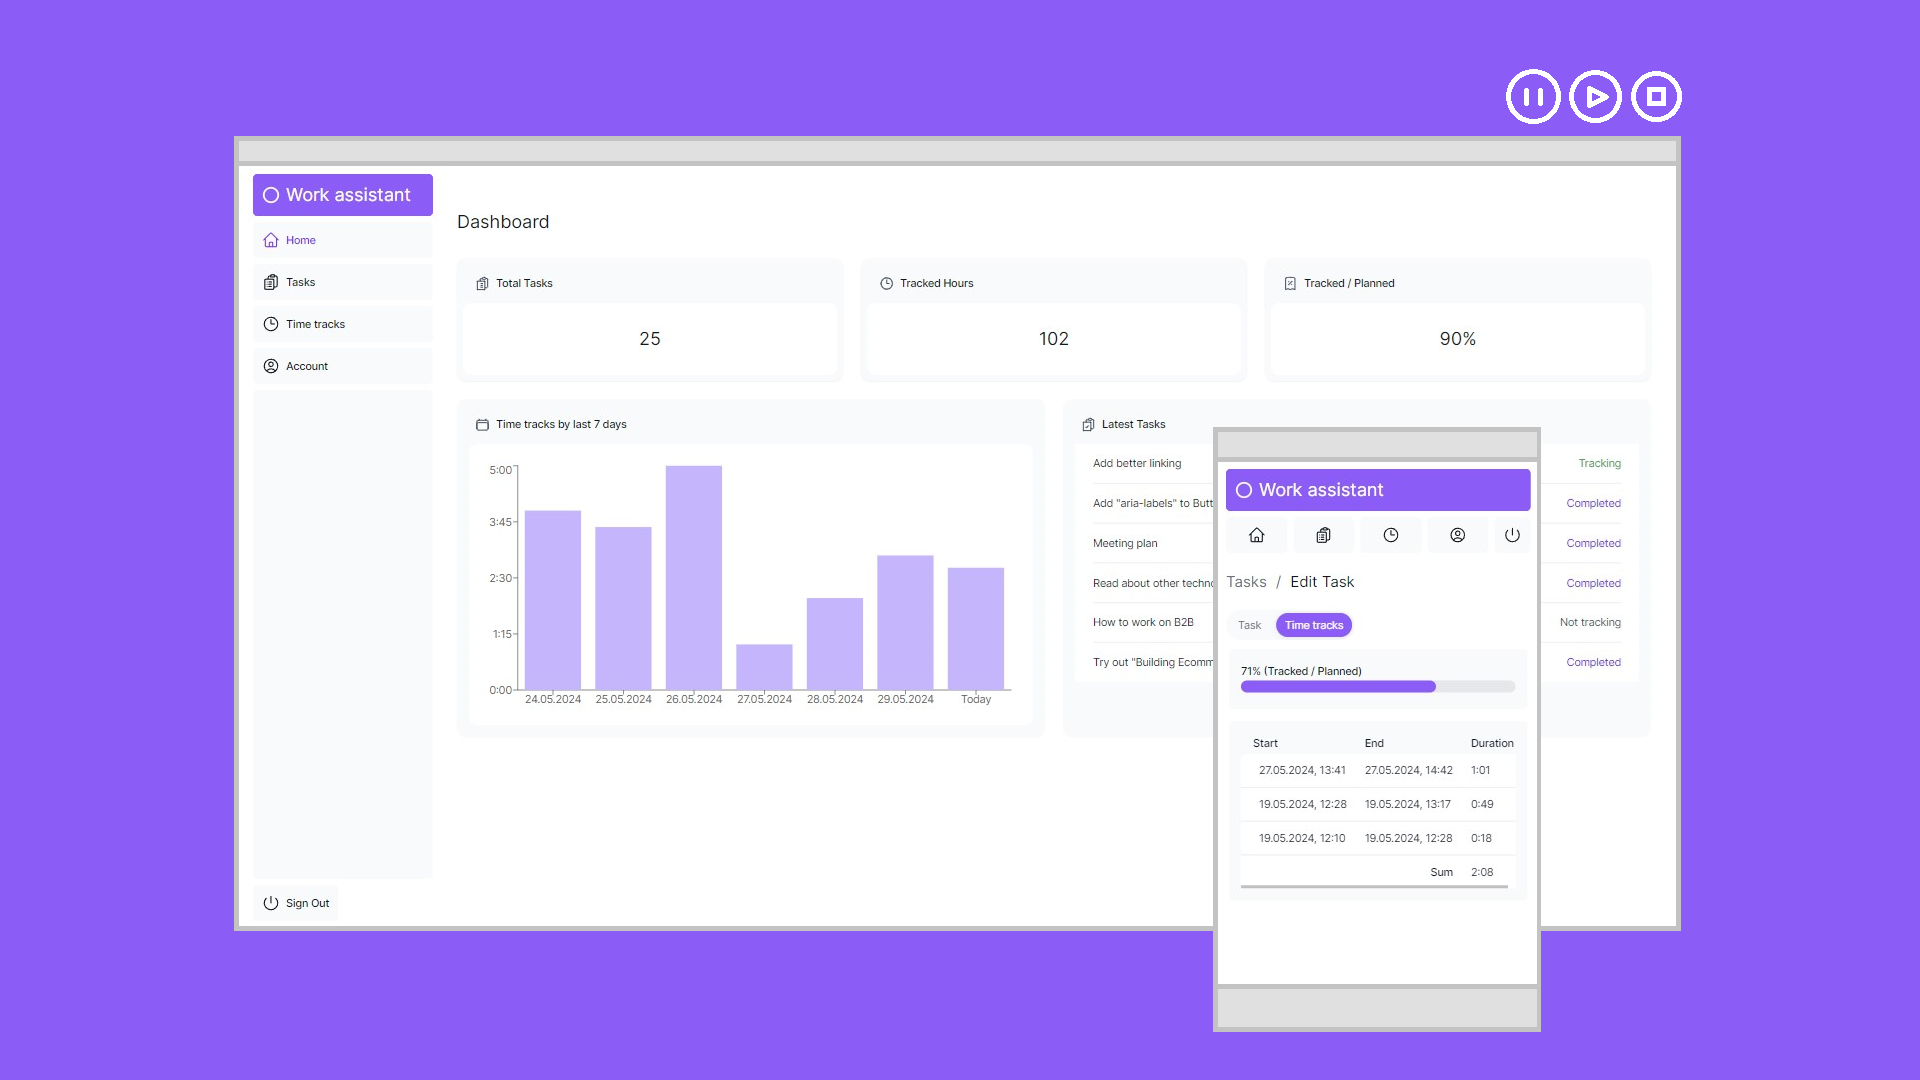
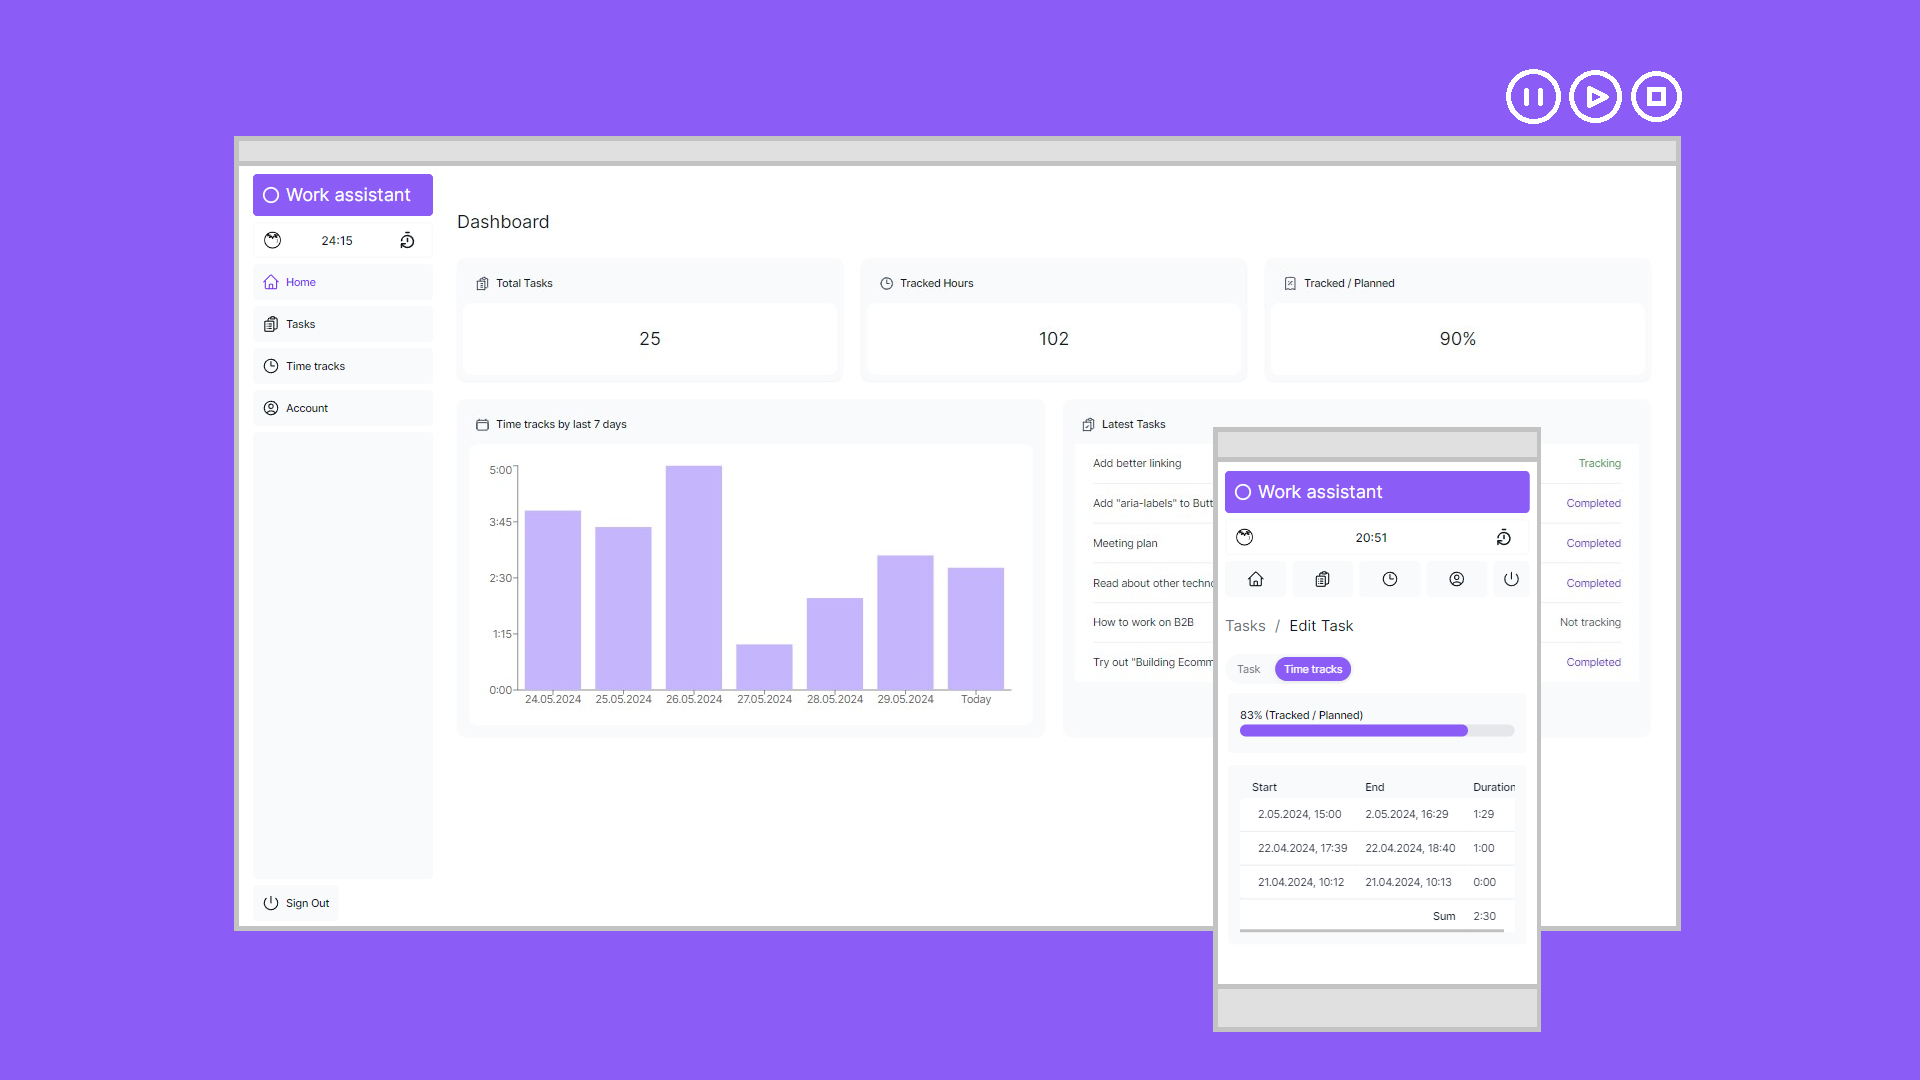
Pomodoro timer (#3)
Add pomodoro timer

diff --git a/src/app/ui/dashboard/pomodoro-timer.tsx b/src/app/ui/dashboard/pomodoro-timer.tsx
@@ -1,0 +1,54 @@
+"use client";
+import Image from "next/image";
+import { TimerResetIcon } from "lucide-react";
+import { useEffect, useState } from "react";
+
+const timeEndKey = "timeEnd";
+
+export default function PomodoroTimer() {
+    const [timeToEndString, setTimeToEndString] = useState("25:00");
+    
+    useEffect(() => {
+        const intervalId = setInterval(() => {
+            const now = new Date().getTime();
+            const timeEnd = Number(localStorage.getItem(timeEndKey));
+            const timeToEnd = timeEnd - now;
+
+            const minutes = Math.floor(timeToEnd / (1000 * 60)).toString().padStart(2, "0");
+            const seconds = Math.floor((timeToEnd % (1000 * 60)) / 1000).toString().padStart(2, "0");
+            const timeToEndString = timeToEnd < 0 ? "Break time" : `${minutes}:${seconds}`;
+
+            if (timeToEnd < 0 && timeToEnd > -3000) {
+                //sound from https://freesound.org/s/22627/
+                const alarm = new Audio("/alarm.flac");
+                alarm.play();
+            }
+
+            setTimeToEndString(timeToEndString);
+            document.title = `${timeToEndString} | Work assistant`;
+        }, 1000);
+
+        return () => clearInterval(intervalId);
+    }, []);
+
+    return (
+        <div className="border-2 border-gray-50 flex font-medium gap-2 h-[48px] items-center justify-between md:p-2 md:px-3 p-3 rounded-md  w-full">
+            <Image alt="pomodoro timer" className="w-6" src="/tomato.png" width={24} height={24} />
+            <span>{timeToEndString}</span>
+            <button 
+                aria-label="Reset timer" 
+                className="focus-visible:outline-violet-500 hover:text-violet-500 p-2" 
+                onClick={resetTimer}
+                title="Reset timer" 
+                type='button'
+            >
+                <TimerResetIcon className="w-6" />
+            </button>
+        </div>
+    )
+}
+
+function resetTimer() {
+    const timeEnd = new Date().getTime() + 25 * 60 * 1000;
+    localStorage.setItem(timeEndKey, timeEnd.toString());
+}

diff --git a/src/app/ui/dashboard/sidenav.tsx b/src/app/ui/dashboard/sidenav.tsx
@@ -1,8 +1,8 @@
-import Link from 'next/link';
 import NavLinks from '@/src/app/ui/dashboard/nav-links';
 import { PowerIcon } from '@heroicons/react/24/outline';
 import { signOut } from '@/auth';
 import WorkAssistantLogo from '@/src/app/ui/work-assistant-logo';
+import PomodoroTimer from '@/src/app/ui/dashboard/pomodoro-timer';
 
 export default function SideNav() {
   return (
@@ -12,7 +12,8 @@ export default function SideNav() {
       >
         <WorkAssistantLogo />
       </div>
-      <div className="flex grow flex-row justify-between space-x-2 md:flex-col md:space-x-0 md:space-y-2">
+      <div className="flex grow flex-row flex-wrap justify-between gap-2 md:flex-col">
+        <PomodoroTimer />
         <NavLinks />
         <div className="hidden h-auto w-full grow rounded-md bg-gray-50 md:block"></div>
         <form

diff --git a/README.md b/README.md
@@ -21,15 +21,16 @@ Done
   - Tracked / Planed (%) of all completed tasks :heavy_check_mark:
   - Time tracks by last 7 days :heavy_check_mark:
   - Latest created Tasks :heavy_check_mark:
+- Pomodoro timer working on background, tells when you should take a break :heavy_check_mark:
+  - Appears on side menu and page title :heavy_check_mark:
+  - You can reset timer in any time :heavy_check_mark:
+  - After time end you will be notified by short alarm and information "Break time" :heavy_check_mark:
 - Delete your account with all associated data (Tasks, Time tracks) :heavy_check_mark:
 
 Planned
 
 - Create hierarchical Tasks
 - Export work status/reports
-- Pomodoro timer working on background, tells you when you should take a break, change position and so on
-  - Configure interval
-  - Configure break messages
 - Ask AI
 
 ## Screenshot
